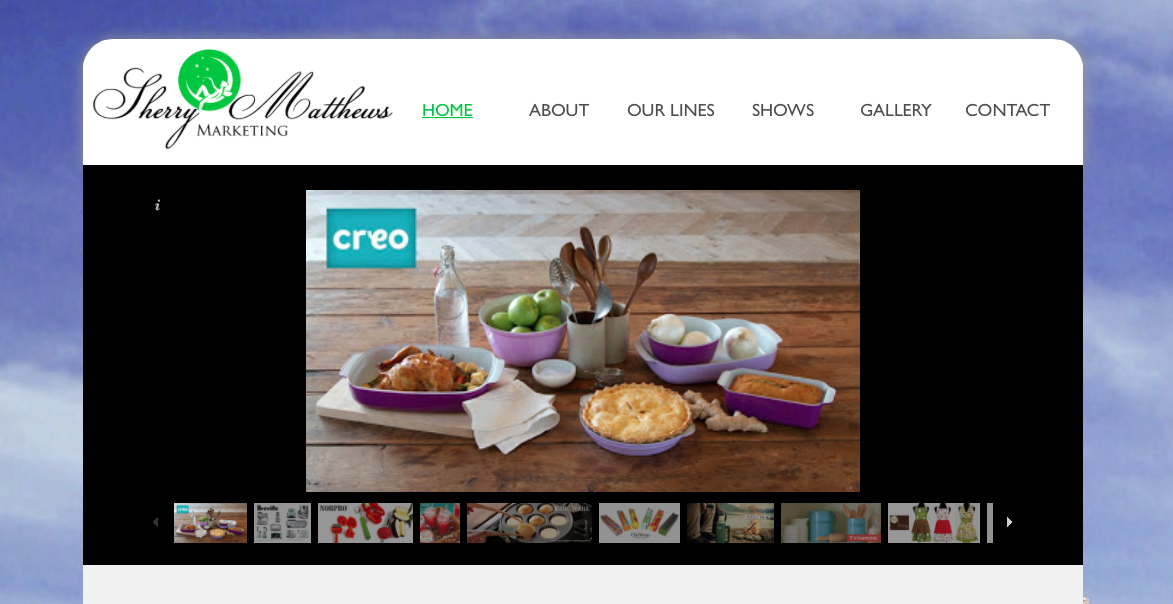
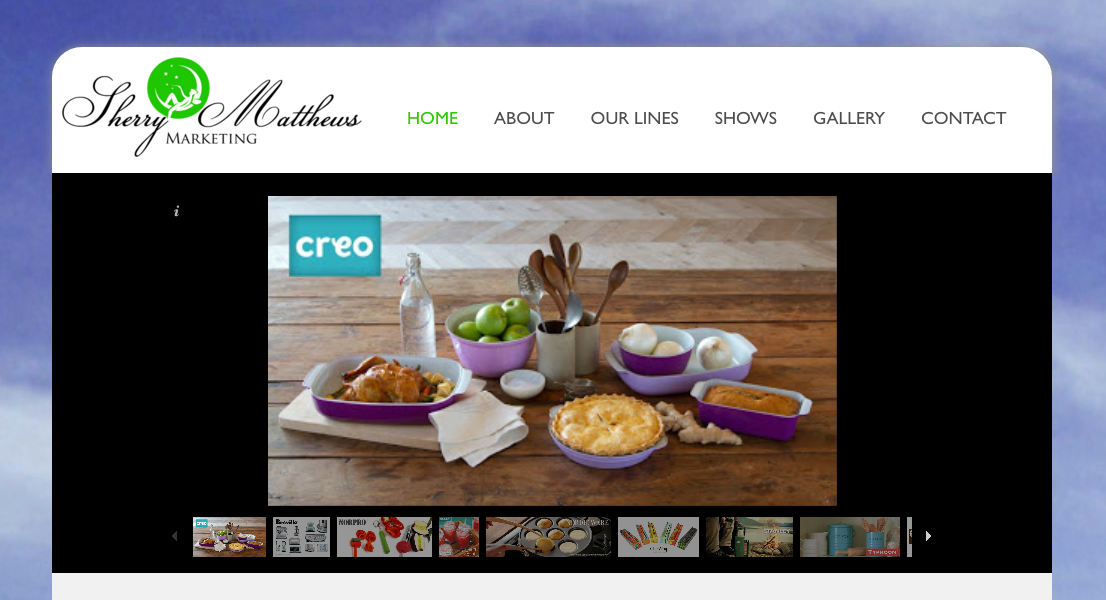
add new smm images, ajust animations, change footer color

diff --git a/app/assets/stylesheets/components/_animations.scss b/app/assets/stylesheets/components/_animations.scss
@@ -27,7 +27,7 @@
 }
 
 .focus:hover {
-  border: 40px solid #000;
+  border: 20px solid #000;
   border-radius: 50%;
   @include transform(rotate(0.1deg));
   img {
@@ -51,7 +51,7 @@
   top: 3.47%;
   left: 3%;
   @include opacity(0);
-  @include transform-origin(-7%, -190%);
+  @include transform-origin(-28%, -310%);
 }
 
 .p-bolt {
@@ -65,7 +65,7 @@
 }
 
 .focus-bolt:hover {
-  border: 40px solid $azure-radiance;
+  border: 20px solid $azure-radiance;
   border-radius: 50%;
   @include transform(rotateX(0.1deg));
   img {
@@ -89,7 +89,7 @@
   z-index: 1;
 
   img {
-    @include transform-origin(center, 5%);
+    @include transform-origin(center, -8%);
   }
 }
 
@@ -102,12 +102,13 @@
 
 
 // Baldwin Interiors animation ########
+
 .p-baldwin {
   @extend .p-item;
   background-color: #fff;
 
   img {
-    @include transform-origin(-8%, -4%);
+    @include transform-origin(-3%, -1%);
   }
 }
 
@@ -115,29 +116,31 @@
   @extend .focus:hover;
 
   img {
-    @include transform(scale(2.5, 2));
+    @include transform(scale(3.5, 3));
   }
 }
 
-// Suggestion Box animation
+// SUGGESTION BOX ANIMATION #################
+
 .p-suggestion {
   @extend .p-item;
   @include transition(all 0.5s ease);
+  border-color: rgb(110,191,212);
 
   img {
     @include transition(all 0.5s ease);
-    @include transform-origin(8%, 4%);
+    @include transform-origin(11%, 6%);
   }
 }
 
 .focus-sugg:hover {
   width: 17em;
-  border: 25px solid #000;
+  border-width: 10px;
   border-radius: 50%;
   @include transform(rotateZ(360deg));
 
   img {
-    @include transform(scale(3.75, 3));
+    @include transform(scale(5, 4));
   }
 }
 
@@ -149,12 +152,12 @@
 
   img {
     @include transition(all 2s ease);
-    @include transform-origin(9%, 9%);
+    @include transform-origin(7%, 9%);
   }
 }
 
 .focus-smm:hover {
-  border: 40px solid $lime-green;
+  border: 20px solid $lime-green;
   border-radius: 50%;
   @include transform(rotateZ(360deg));
 
@@ -165,6 +168,12 @@
 
 
 // MEDIA QUERIES ############################
+
+@media only screen and (min-width: 480px) {
+  .focus:hover, .focus-bolt:hover, .focus-smm:hover {
+    border-width: 40px;
+  }
+}
 
 .p-item {
   @media only screen and (min-width: 480px) and (max-width: 1199px) {
@@ -200,6 +209,7 @@
 #bolt-svg {
   @media screen and (min-width: 480px) {
     width: 7em;
+    @include transform-origin(-7%, -190%);
   }
 
   @media screen and (min-width: 1200px) {
@@ -223,21 +233,30 @@
 .p-baldwin {
   @media screen and (min-width: 480px) {
     img {
-      @include transform-origin(-8%, -10%);
+      @include transform-origin(-3.5%, top);
     }
   }
 }
 
-// Suggestion Box ####
+// SUGGESTION BOX ####
 
-.focus-sugg:hover {
-  @media screen and (min-width: 480px) {
+@media screen and (min-width: 480px) and (max-width: 1199px) {
+  .focus-sugg:hover {
     width: 20em;
   }
 
-  @media screen and (min-width: 1200px) {
+  .p-suggestion img {
+    -moz-transform-origin: 8% 4%;
+    -ms-transform-origin: 8% 4%;
+    -webkit-transform-origin: 8% 4%;
+    transform-origin: 11% 5%;
+  }
+}
+
+@media screen and (min-width: 1200px) {
+  .focus-sugg:hover {
     width: 28em;
-    border: solid 40px #000;
+    border-width: 20px;
   }
 }
 
@@ -246,7 +265,7 @@
 .p-smm {
   @media screen and (min-width: 480px) {
     img {
-      @include transform-origin(9%, 7%);
+      @include transform-origin(7%, 8%);
     }
   }
 }

diff --git a/app/assets/stylesheets/layout/_footer.scss b/app/assets/stylesheets/layout/_footer.scss
@@ -5,7 +5,7 @@
 
 footer { 
   padding-top: 1em;
-  background-color: #EEE0CB;
+  background-color: #40BC78;
   border-top: solid 2px #222;
   color: #222;
   height: 140px;
@@ -25,7 +25,7 @@ footer {
     color: #222;
     @include transition(all 0.5s ease);
     &:hover {
-      color: #18bc9c;
+      color: #F8F8F8;
     }
   }
 

diff --git a/config/routes.rb b/config/routes.rb
@@ -16,7 +16,7 @@ Rails.application.routes.draw do
   get 'work/baldwin' => 'pages#baldwin'
   get 'work/griffen' => 'pages#griffen'
   get 'work/smm' => 'pages#smm'
-  get 'work/suggestion_box' => 'pages#suggestion_boxf'
+  get 'work/suggestion_box' => 'pages#suggestion_box'
   
   root 'pages#welcome'
   
